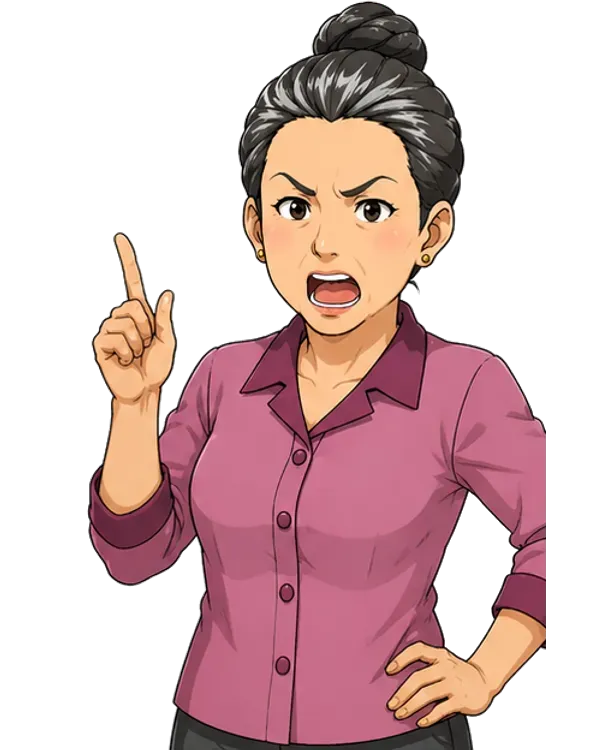
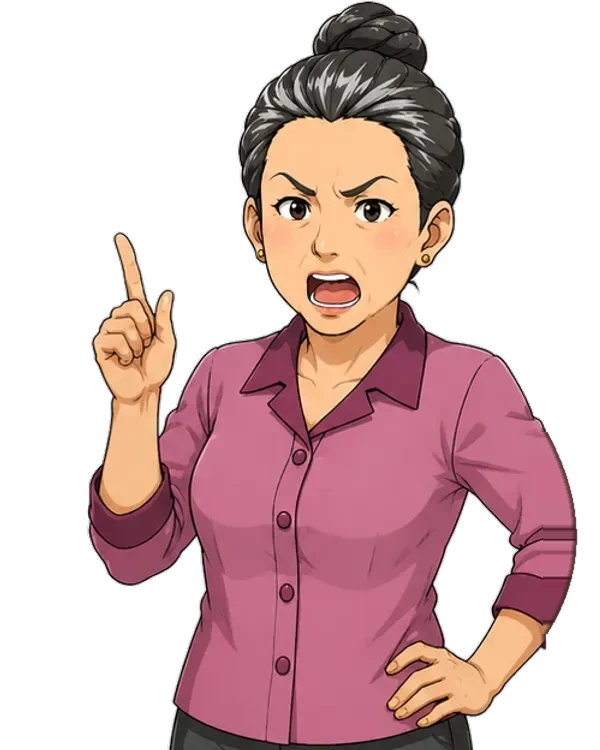
game: หน้าจอโทรศัพท์ 1669 แบบเต็ม + ซ่อมรูปป้าแก้วที่แหว่ง
กรอบสายด่วน: ทำให้เป็นหน้าจอโทรศัพท์จริง
- แถบสถานะบนจอ (ชื่อเครือข่าย EMS 1669 + สัญญาณ + แบตเตอรี่)
- บล็อกผู้โทร: ชื่อ + หน่วยงาน + สถานะสาย/เวลาสนทนา แบบ call screen
- ปุ่มสามปุ่ม: รับสาย / ลำโพง / วางสาย — ปุ่มลำโพงผูกกับสวิตช์เสียงของเกมจริง

รูปตัวละครป้าแก้ว: silhouette ทั้ง 5 ท่าโดนตัดเป็นเส้นตรง (รอยจากตอนลบ
พื้นหลัง) เห็นเป็นรอยแหว่งสี่เหลี่ยมที่แขน/ไหล่ — ซ่อมด้วยการลากเส้นขอบใหม่
จาก contour จริงเหนือ/ใต้รอยตัด แล้วเติมเนื้อภาพ (ท่าที่สมมาตรมิเรอร์จาก
อีกฝั่ง ท่าที่ไม่สมมาตรยืดสีผ้าออกไปแล้ววาดเส้นขอบให้)

ลดความกว้าง sprite จาก 105vw เป็น 100vw ด้วย — เวที overflow:hidden
เฉือนไหล่/แขนที่ล้นออกนอกจอจนดูแหว่งเหมือนกัน

Claude-Session: https://claude.ai/code/session_01Tqa3SxoA8XCYdc1ZbRiJfS

Changed region(s): [[0.9, 0.552, 0.96, 0.8587]]

diff --git a/files/jia-online/src/game/game.css b/files/jia-online/src/game/game.css
@@ -310,8 +310,9 @@
 
 .cbs-sprite {
   position: relative; z-index: 2; flex-shrink: 0;
-  /* ขนาดเดียวกับ Code Blue Sim (acls.morroo.com) — ตัวละครใหญ่เกือบเต็มความกว้างจอมือถือ */
-  width: min(105vw, 445px);
+  /* ตัวละครใหญ่เกือบเต็มความกว้างจอมือถือ — แต่ไม่เกิน 100vw
+     เพราะเวที overflow:hidden จะเฉือนแขน/ไหล่ที่ล้นออกไปจนดูแหว่ง */
+  width: min(100vw, 445px);
 }
 .cbs-sprite.cbs-pop { animation: cbs-pop .22s ease; }
 .cbs-sprite svg, .cbs-sprite-img {
@@ -324,7 +325,7 @@
    จอครอปข้างลำตัวที่โดนตัดจากภาพต้นฉบับแผงแคบ ให้ดูเป็นเฟรมที่ตั้งใจ
    + ปุ่มรับสาย/วางสายบนจอ เหมือนหน้าจอสายเรียกเข้าในมือถือจริง */
 .cbs-phone {
-  position: relative; width: 60%; margin: 0 auto;
+  position: relative; width: 63%; margin: 0 auto;
   padding: 9px 8px 10px;
   border: 2px solid #3A466F; border-radius: 26px;
   background: linear-gradient(180deg, #2A3254, #171D35 46%, #0E1327);
@@ -353,62 +354,101 @@
   width: 192.3%; margin-left: -46.15%;
   filter: none; /* เงา drop-shadow ไม่จำเป็นในกรอบ — กรอบมีเงาของตัวเอง */
 }
-.cbs-phone-head {
-  position: absolute; top: 8px; left: 50%; transform: translateX(-50%);
-  display: inline-flex; align-items: center; gap: 6px;
-  font-family: var(--cbs-mono); font-size: 11px; letter-spacing: .08em;
-  color: #FFD9DA; background: rgba(4, 8, 18, .78);
-  border: 1.5px solid rgba(229, 72, 77, .65); border-radius: 999px;
-  padding: 4px 12px; white-space: nowrap;
+/* แถบสถานะบนสุดของจอ — เครือข่าย/สัญญาณ/แบต */
+.cbs-phone-status {
+  position: absolute; top: 0; left: 0; right: 0; z-index: 3;
+  display: flex; align-items: center; justify-content: space-between;
+  padding: 5px 11px 9px;
+  font-family: var(--cbs-mono); font-size: 8.5px; letter-spacing: .1em;
+  color: rgba(233, 239, 255, .9);
+  background: linear-gradient(180deg, rgba(4, 8, 18, .8), transparent);
 }
+.cbs-phone-status-r { display: inline-flex; align-items: center; gap: 5px; }
+.cbs-phone-sig { display: inline-flex; align-items: flex-end; gap: 1.5px; height: 8px; }
+.cbs-phone-sig i { width: 2px; background: currentColor; border-radius: 1px; }
+.cbs-phone-sig i:nth-child(1) { height: 3px; }
+.cbs-phone-sig i:nth-child(2) { height: 5px; }
+.cbs-phone-sig i:nth-child(3) { height: 6.5px; }
+.cbs-phone-sig i:nth-child(4) { height: 8px; }
+.cbs-phone-batt {
+  position: relative; width: 15px; height: 8px; border-radius: 2px;
+  border: 1px solid currentColor; padding: 1px;
+  background:
+    linear-gradient(90deg, currentColor 72%, transparent 72%) content-box no-repeat;
+}
+.cbs-phone-batt::after {
+  content: ""; position: absolute; right: -3px; top: 2px;
+  width: 1.5px; height: 3px; border-radius: 0 1px 1px 0; background: currentColor;
+}
+
+/* บล็อกชื่อผู้โทร — ชื่อ + หน่วยงาน + สถานะสาย เหมือนหน้าจอโทรออกจริง */
+.cbs-phone-caller {
+  position: absolute; top: 22px; left: 0; right: 0; z-index: 2;
+  display: flex; flex-direction: column; align-items: center; gap: 2px;
+  padding: 4px 10px 16px; text-align: center;
+  background: linear-gradient(180deg, rgba(4, 8, 18, .72) 45%, transparent);
+  text-shadow: 0 1px 4px rgba(0, 0, 0, .85);
+}
+.cbs-phone-caller b { font-size: 13.5px; letter-spacing: .02em; }
+.cbs-phone-sub { font-size: 9.5px; color: #A8B4D8; letter-spacing: .06em; }
+.cbs-phone-state {
+  display: inline-flex; align-items: center; gap: 5px; margin-top: 2px;
+  font-family: var(--cbs-mono); font-size: 10px; color: #BFE9CF;
+  font-variant-numeric: tabular-nums;
+}
+.cbs-phone-state.cbs-off { color: #C79AA0; }
 .cbs-phone-dot {
-  width: 7px; height: 7px; border-radius: 50%;
-  background: var(--cbs-red); box-shadow: 0 0 8px var(--cbs-red);
+  width: 6px; height: 6px; border-radius: 50%;
+  background: var(--cbs-green); box-shadow: 0 0 7px var(--cbs-green);
   animation: cbs-blink 1.2s steps(2) infinite;
 }
-.cbs-phone-time {
-  color: #FFE7B4; font-variant-numeric: tabular-nums;
-  padding-left: 6px; border-left: 1px solid rgba(255, 255, 255, .22);
+.cbs-phone-state.cbs-off .cbs-phone-dot {
+  background: var(--cbs-red); box-shadow: 0 0 7px var(--cbs-red); animation: none;
 }
 
 /* หน้าจอตอนวางสายไปแล้ว — บทพูดยังเดินต่อได้ แค่ปิดภาพปลายสาย */
 .cbs-phone-idle {
   display: flex; flex-direction: column; align-items: center; justify-content: center;
-  gap: 9px; min-height: 260px; padding: 26px 16px 92px; text-align: center;
+  gap: 12px; min-height: 250px; padding: 84px 16px 92px;
 }
+.cbs-phone-idle-note { font-size: 10.5px; color: #8B99C4; letter-spacing: .04em; }
 .cbs-phone-avatar {
-  width: 64px; height: 64px; border-radius: 50%;
-  display: grid; place-items: center; font-size: 26px;
-  background: rgba(88, 196, 220, .14);
-  border: 1.5px solid rgba(120, 140, 200, .32);
+  width: 74px; height: 74px; border-radius: 50%;
+  display: grid; place-items: center; color: #7C8AB4;
+  background: rgba(120, 140, 200, .12);
+  border: 1.5px solid rgba(120, 140, 200, .28);
 }
-.cbs-phone-idle b {
-  font-family: var(--cbs-mono); font-size: 12.5px; letter-spacing: .08em;
-}
-.cbs-phone-idle-note { font-size: 11px; color: #8B99C4; line-height: 1.55; }
+.cbs-phone-avatar svg { width: 30px; height: 30px; filter: none; }
 
 /* แถบปุ่มรับสาย/วางสาย — ลอยบนจอเหมือน call screen (ไม่กินความสูงเวที) */
 .cbs-phone-keys {
   position: absolute; left: 0; right: 0; bottom: 0;
-  display: flex; justify-content: center; gap: 18px;
-  padding: 30px 8px 10px;
-  background: linear-gradient(180deg, transparent, rgba(4, 8, 18, .88) 58%);
+  display: flex; justify-content: center; gap: 14px;
+  padding: 34px 8px 12px;
+  background: linear-gradient(180deg, transparent, rgba(4, 8, 18, .9) 58%);
 }
 .cbs-phone-key {
   display: flex; flex-direction: column; align-items: center; gap: 5px;
   padding: 0; border: 0; background: none; cursor: pointer;
-  font-family: var(--cbs-mono); font-size: 10px; letter-spacing: .06em;
+  font-family: var(--cbs-mono); font-size: 9.5px; letter-spacing: .06em;
   color: #E7ECFF;
 }
 .cbs-phone-ico {
   width: 42px; height: 42px; border-radius: 50%;
-  display: grid; place-items: center; color: #fff;
+  display: grid; place-items: center; color: #fff; font-size: 17px;
   border: 1.5px solid rgba(4, 8, 18, .45);
   box-shadow: 0 4px 12px rgba(0, 0, 0, .5), inset 0 1px 0 rgba(255, 255, 255, .28);
 }
 .cbs-phone-key svg { width: 21px; height: 21px; display: block; filter: none; }
 .cbs-phone-answer .cbs-phone-ico { background: linear-gradient(180deg, #4BD97F, #1E9B4C); }
 .cbs-phone-hangup .cbs-phone-ico { background: linear-gradient(180deg, #F2686C, #C22026); }
+/* ลำโพง = สวิตช์เสียงเกม — สว่างเมื่อเปิดเสียง */
+.cbs-phone-speaker .cbs-phone-ico {
+  background: rgba(233, 239, 255, .14); border-color: rgba(233, 239, 255, .3);
+}
+.cbs-phone-speaker.cbs-on .cbs-phone-ico {
+  background: rgba(233, 239, 255, .92); border-color: rgba(255, 255, 255, .6);
+}
 .cbs-phone-key:disabled { opacity: .32; cursor: default; }
 .cbs-phone-key:not(:disabled):active .cbs-phone-ico { transform: scale(.92); }
 /* ปุ่มที่กดได้ตอนนี้สั่นเรียกสายให้เห็นชัดว่าแตะได้ */

diff --git a/files/jia-online/src/game/GamePage.jsx b/files/jia-online/src/game/GamePage.jsx
@@ -63,6 +63,23 @@ const lessonTag = (c) => (c.lesson ? `บทที่ ${c.lesson}` : (c.tag || '
 // นาฬิกาจับเวลาสาย 1669 บนกรอบโทรศัพท์ (mm:ss)
 const fmtCall = (s) => `${String(Math.floor(s / 60)).padStart(2, '0')}:${String(s % 60).padStart(2, '0')}`;
 
+// ลำโพงบนหน้าจอโทรศัพท์ — off = ขีดคาดทับ (เสียงเกมปิดอยู่)
+function Speaker({ off = false }) {
+  return (
+    <svg viewBox="0 0 24 24" aria-hidden="true">
+      <path fill="currentColor" d="M4 9.5h3.2L12 5.4v13.2L7.2 14.5H4a1 1 0 0 1-1-1v-3a1 1 0 0 1 1-1z" />
+      {off ? (
+        <path stroke="currentColor" strokeWidth="2" strokeLinecap="round" d="M15.5 9.5l5 5m0-5l-5 5" />
+      ) : (
+        <path
+          fill="none" stroke="currentColor" strokeWidth="1.9" strokeLinecap="round"
+          d="M15.4 9.1a4 4 0 0 1 0 5.8M18 6.6a7.6 7.6 0 0 1 0 10.8"
+        />
+      )}
+    </svg>
+  );
+}
+
 // หูโทรศัพท์สำหรับปุ่มรับสาย/วางสาย — down = หมุนเป็นท่าวางสาย
 function Handset({ down = false }) {
   return (
@@ -565,6 +582,12 @@ export default function GamePage({ onExit, onTrack, fetchCustomImages, finalExam
     vibrate(20);
   }
 
+  // ปุ่มลำโพงบนกรอบโทรศัพท์ = สวิตช์เสียงของเกม (ปุ่มบนหน้าจอโทรศัพท์ที่ทำงานจริง)
+  function toggleSpeaker(e) {
+    e.stopPropagation();
+    toggleMute();
+  }
+
   function onDialogTap() {
     if (busyRef.current) return;
     if (!mutedRef.current) initAudio(); // เข้าจากลิงก์ auto-start: แตะครั้งแรกในเกมคือ gesture ที่ปลดล็อกเสียง
@@ -966,21 +989,34 @@ export default function GamePage({ onExit, onTrack, fetchCustomImages, finalExam
                 <div className="cbs-phone">
                   <div className="cbs-phone-ear" />
                   <div className="cbs-phone-screen">
+                    {/* แถบสถานะบนสุดแบบมือถือ: ชื่อเครือข่าย + สัญญาณ + แบต */}
+                    <div className="cbs-phone-status">
+                      <span>EMS 1669</span>
+                      <span className="cbs-phone-status-r">
+                        <span className="cbs-phone-sig" aria-hidden="true"><i /><i /><i /><i /></span>
+                        <span className="cbs-phone-batt" aria-hidden="true" />
+                      </span>
+                    </div>
+
                     {callLive ? (
-                      <>
-                        <CharacterSprite charId={speaker.who} pose={speaker.pose} talking={typing} imgV={imgV} />
-                        <div className="cbs-phone-head">
-                          <span className="cbs-phone-dot" />{char.phoneFrame}
-                          <span className="cbs-phone-time">{fmtCall(callSec)}</span>
-                        </div>
-                      </>
+                      <CharacterSprite charId={speaker.who} pose={speaker.pose} talking={typing} imgV={imgV} />
                     ) : (
                       <div className="cbs-phone-idle">
-                        <span className="cbs-phone-avatar" aria-hidden="true">📞</span>
-                        <b>{char.phoneFrame}</b>
-                        <span className="cbs-phone-idle-note">วางสายแล้ว — แตะปุ่มเขียวเพื่อโทรกลับ</span>
+                        <span className="cbs-phone-avatar" aria-hidden="true"><Handset down /></span>
+                        <span className="cbs-phone-idle-note">แตะปุ่มเขียวเพื่อโทรกลับ</span>
                       </div>
                     )}
+
+                    {/* บล็อกชื่อผู้โทร — วางแบบหน้าจอสายเรียกเข้าจริง */}
+                    <div className="cbs-phone-caller">
+                      <b>{char.name}</b>
+                      <span className="cbs-phone-sub">{char.role}</span>
+                      <span className={`cbs-phone-state ${callLive ? '' : 'cbs-off'}`}>
+                        <i className="cbs-phone-dot" />
+                        {callLive ? `กำลังสนทนา ${fmtCall(callSec)}` : `วางสายแล้ว · ${fmtCall(callSec)}`}
+                      </span>
+                    </div>
+
                     <div className="cbs-phone-keys">
                       <button
                         type="button"
@@ -991,6 +1027,15 @@ export default function GamePage({ onExit, onTrack, fetchCustomImages, finalExam
                       >
                         <span className="cbs-phone-ico"><Handset /></span>
                         รับสาย
+                      </button>
+                      <button
+                        type="button"
+                        className={`cbs-phone-key cbs-phone-speaker ${muted ? '' : 'cbs-on'}`}
+                        onClick={toggleSpeaker}
+                        aria-label={muted ? 'เปิดลำโพง' : 'ปิดลำโพง'}
+                      >
+                        <span className="cbs-phone-ico"><Speaker off={muted} /></span>
+                        ลำโพง
                       </button>
                       <button
                         type="button"
